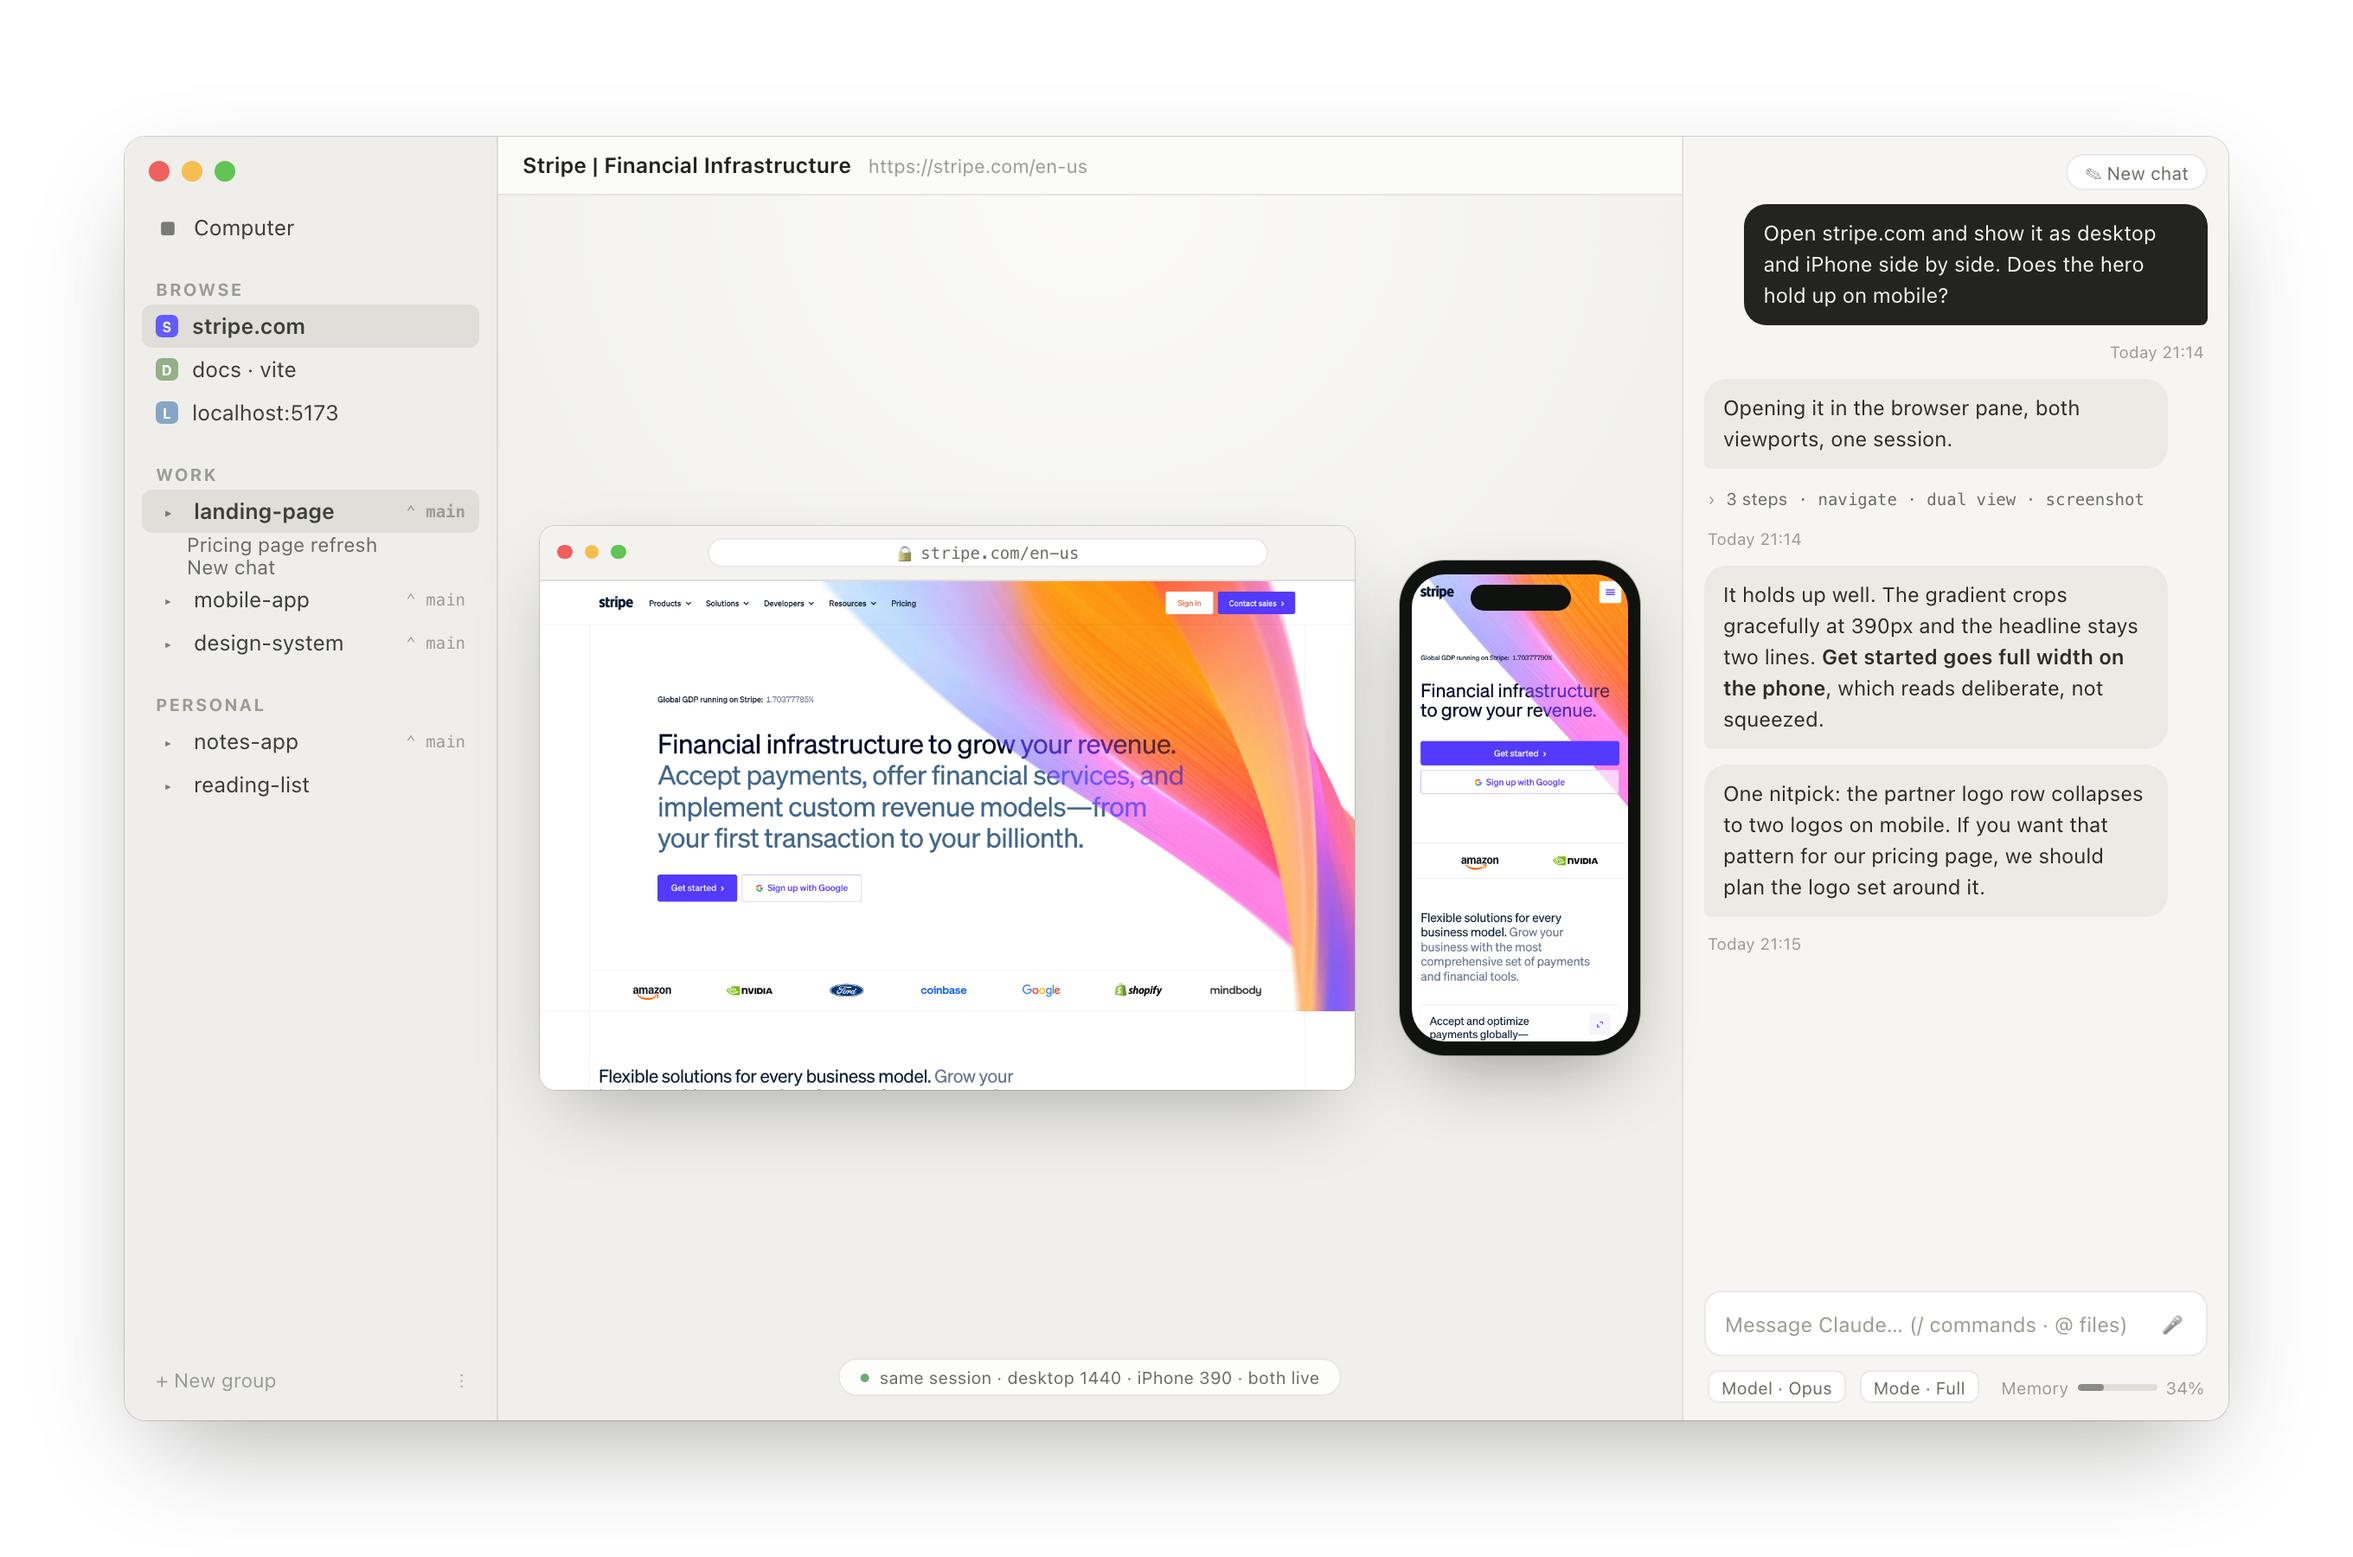
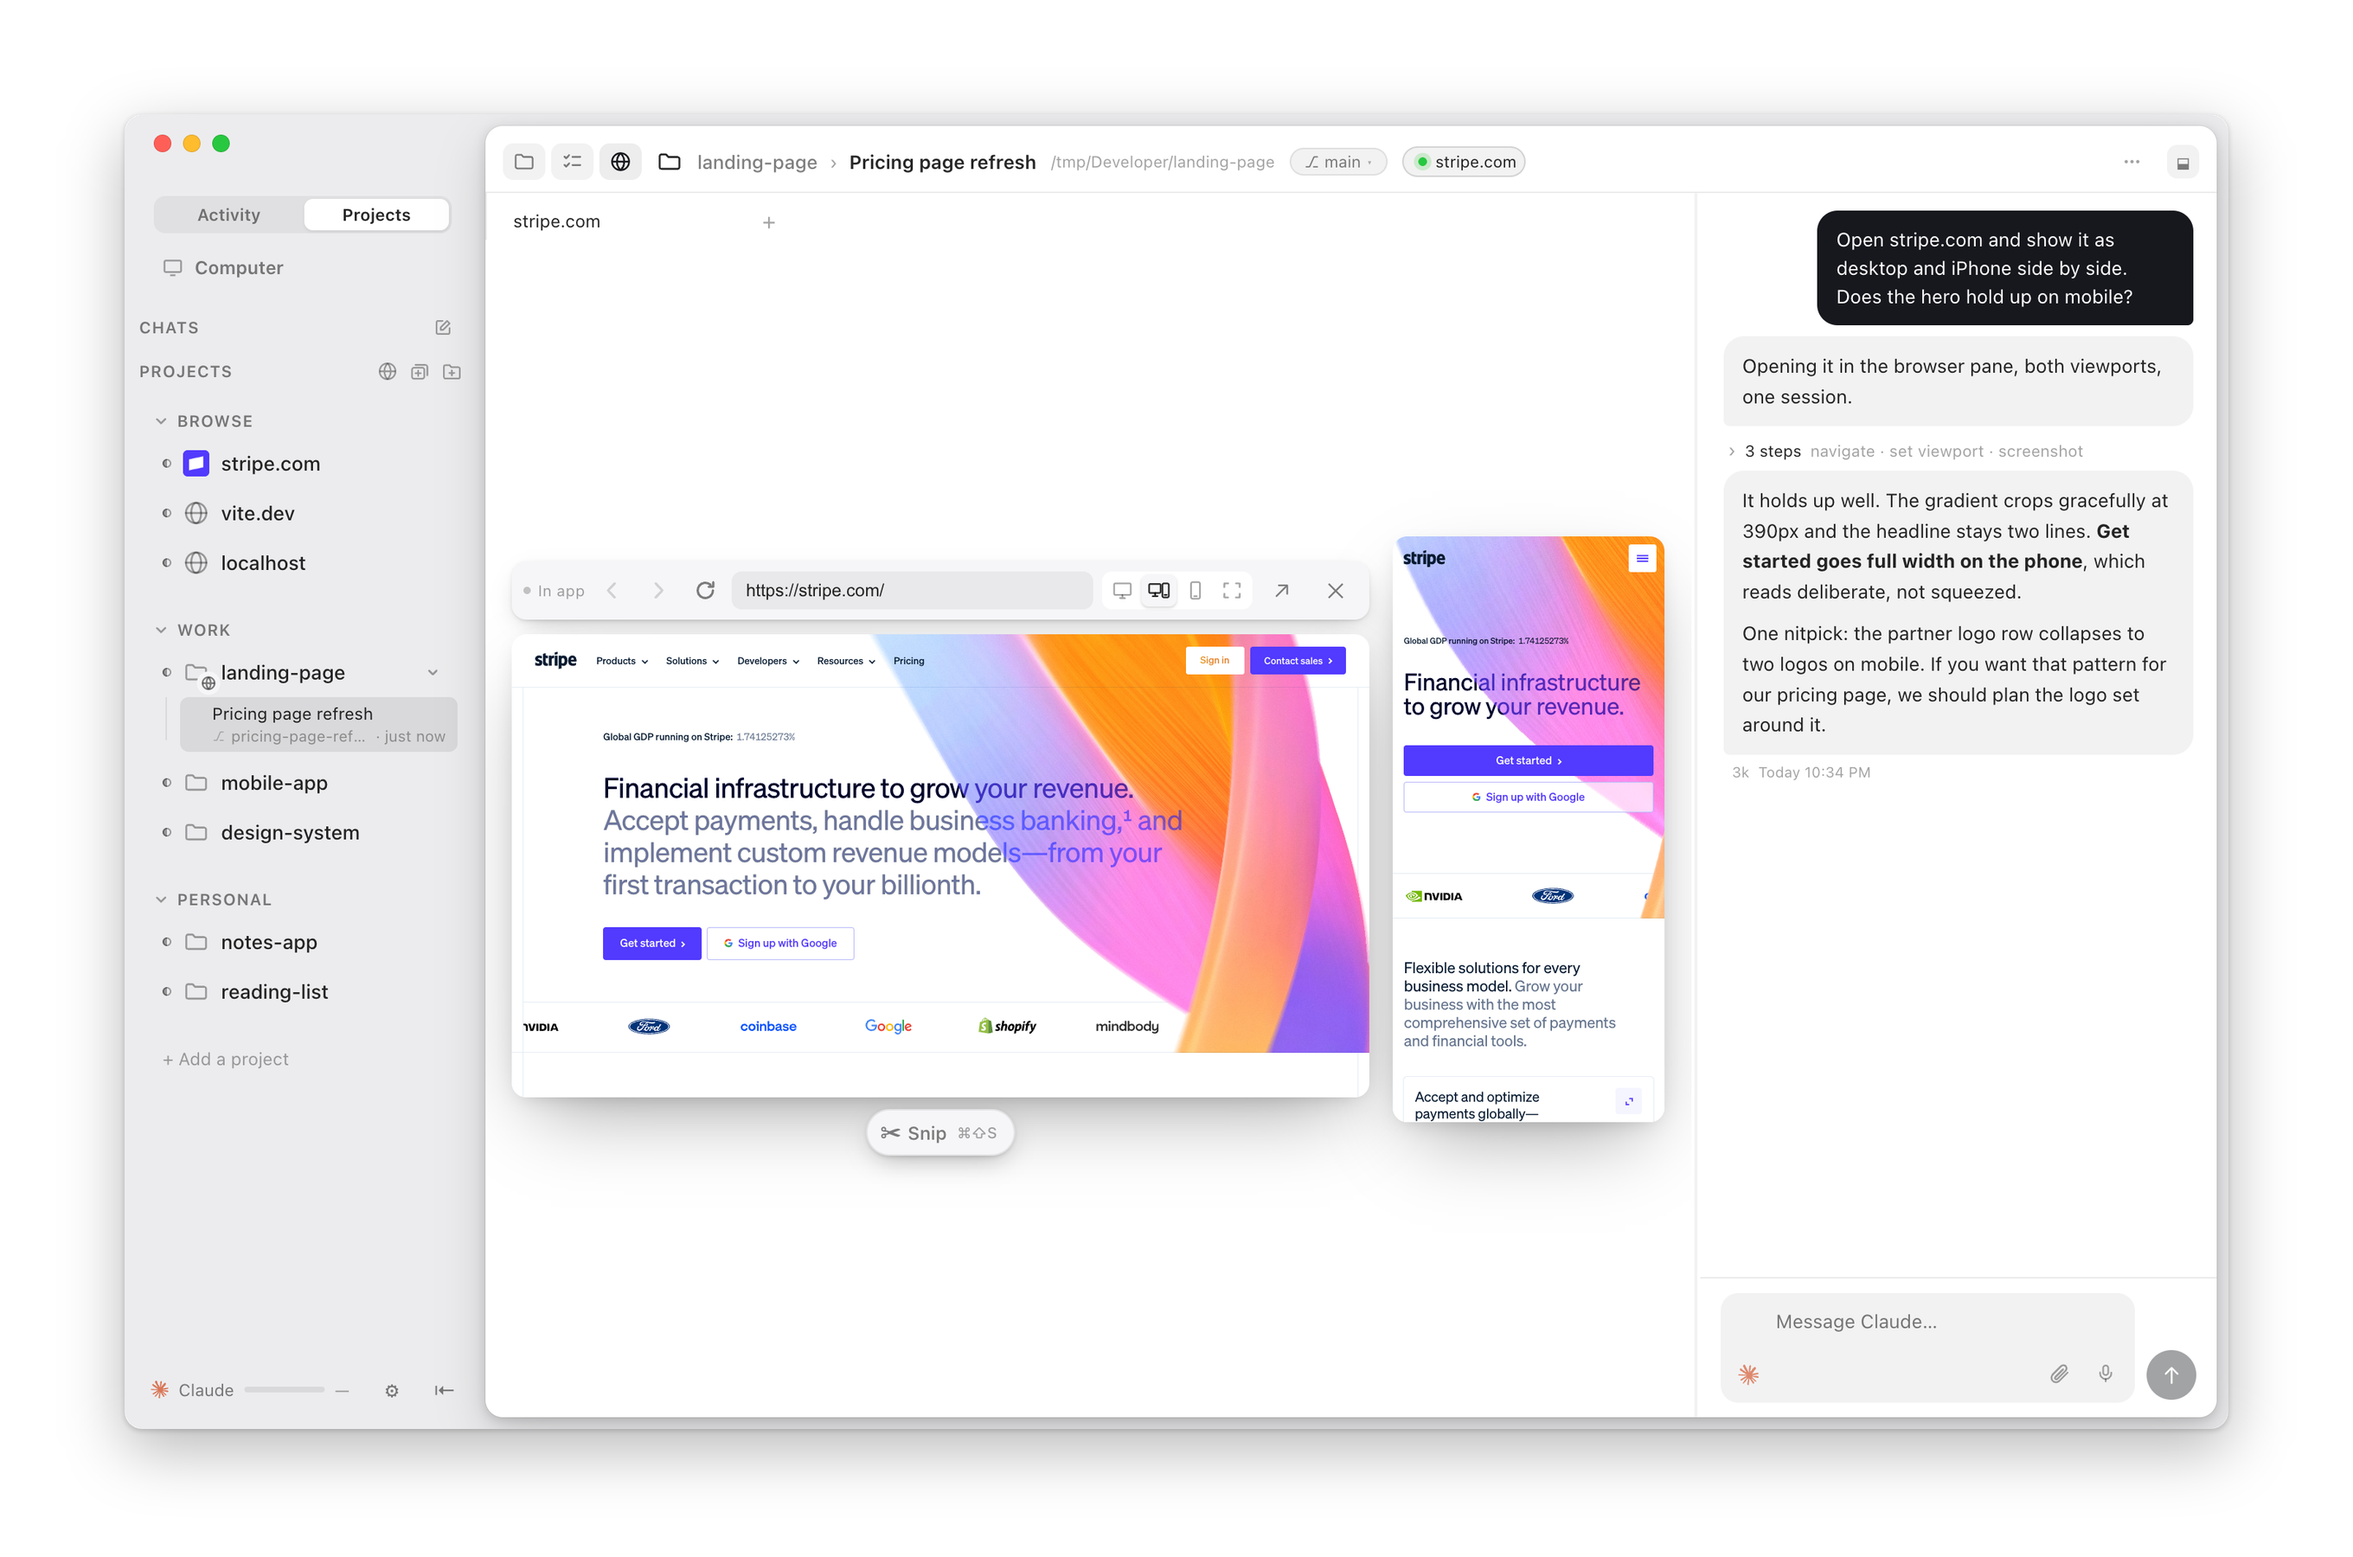
Landing: hero retaken from today's app, neutral greys instead of the old cream theme

diff --git a/docs/index.html b/docs/index.html
@@ -110,7 +110,7 @@
     /* Product shots sit on the page, never in a card: the window's own corner and one hairline edge */
     .shot { margin: 64px auto 0; }
     .hero .shot { width: var(--wide); max-width: 87.5%; }
-    .window { border-radius: 0.905% / 1.483%; outline: 1px solid rgba(0, 0, 0, 0.1); outline-offset: -1px; }
+    .window { border-radius: 0.833% / 1.333%; outline: 1px solid rgba(0, 0, 0, 0.1); outline-offset: -1px; }
     .window.build { border-radius: 0.926% / 1.476%; }
 
     /* Section header: Apple's two-column header, headline left, copy right, 120px apart */
@@ -192,7 +192,7 @@
         <p class="fine">Free and open source. Works with Claude Code, Codex and Antigravity.</p>
       </div>
       <div class="shot">
-        <img class="window" src="hero-window.png" alt="The Superagent window: stripe.com open in the browser pane as a desktop card and an iPhone side by side, with the chat that opened it reporting what it found" width="2432" height="1484" fetchpriority="high" decoding="async" />
+        <img class="window" src="hero-window.png" alt="The Superagent window: stripe.com open in the browser pane as a desktop card and an iPhone side by side, with the chat that opened it reporting what it found" width="2880" height="1800" fetchpriority="high" decoding="async" />
       </div>
     </section>
 
